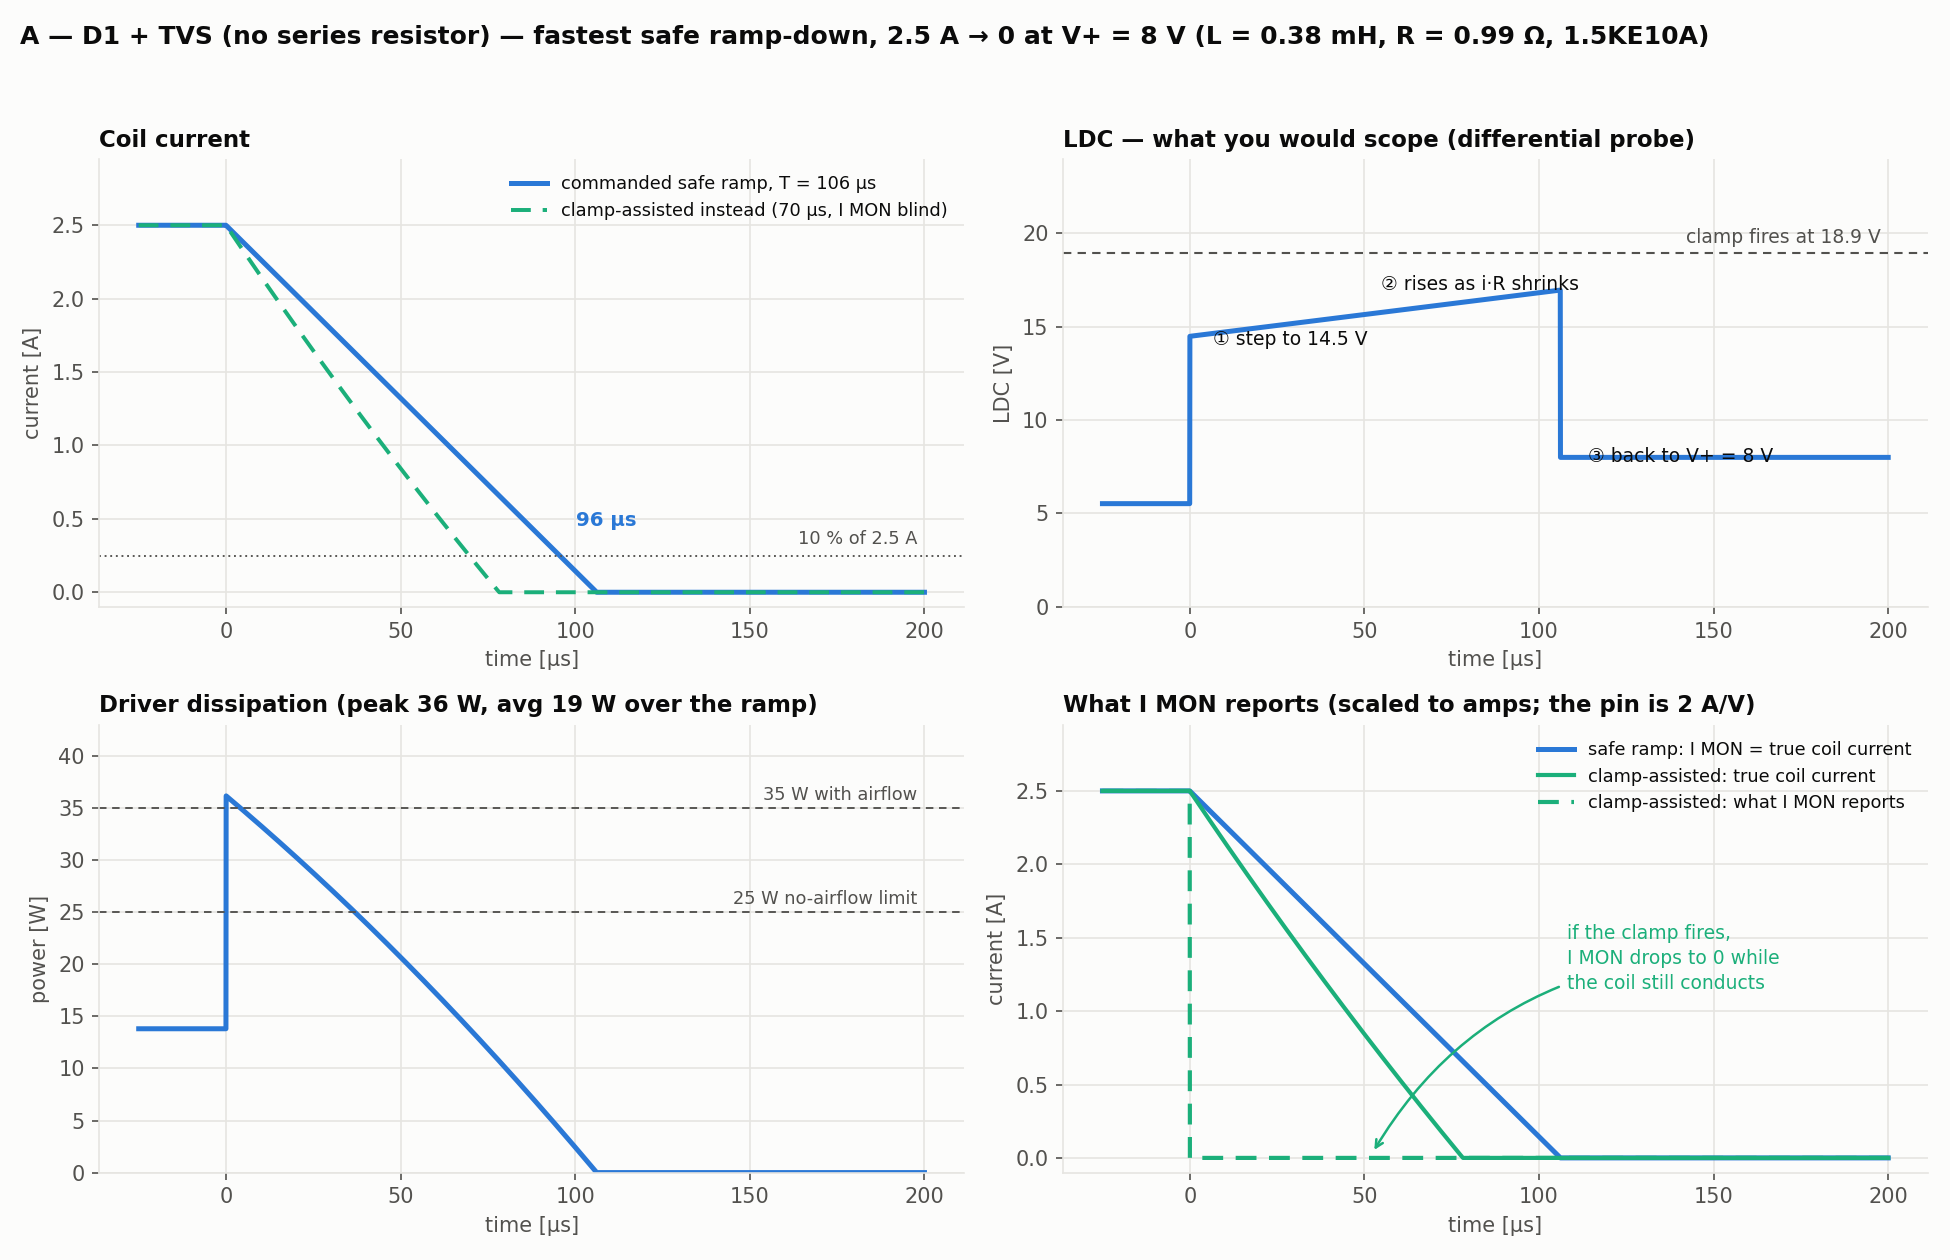
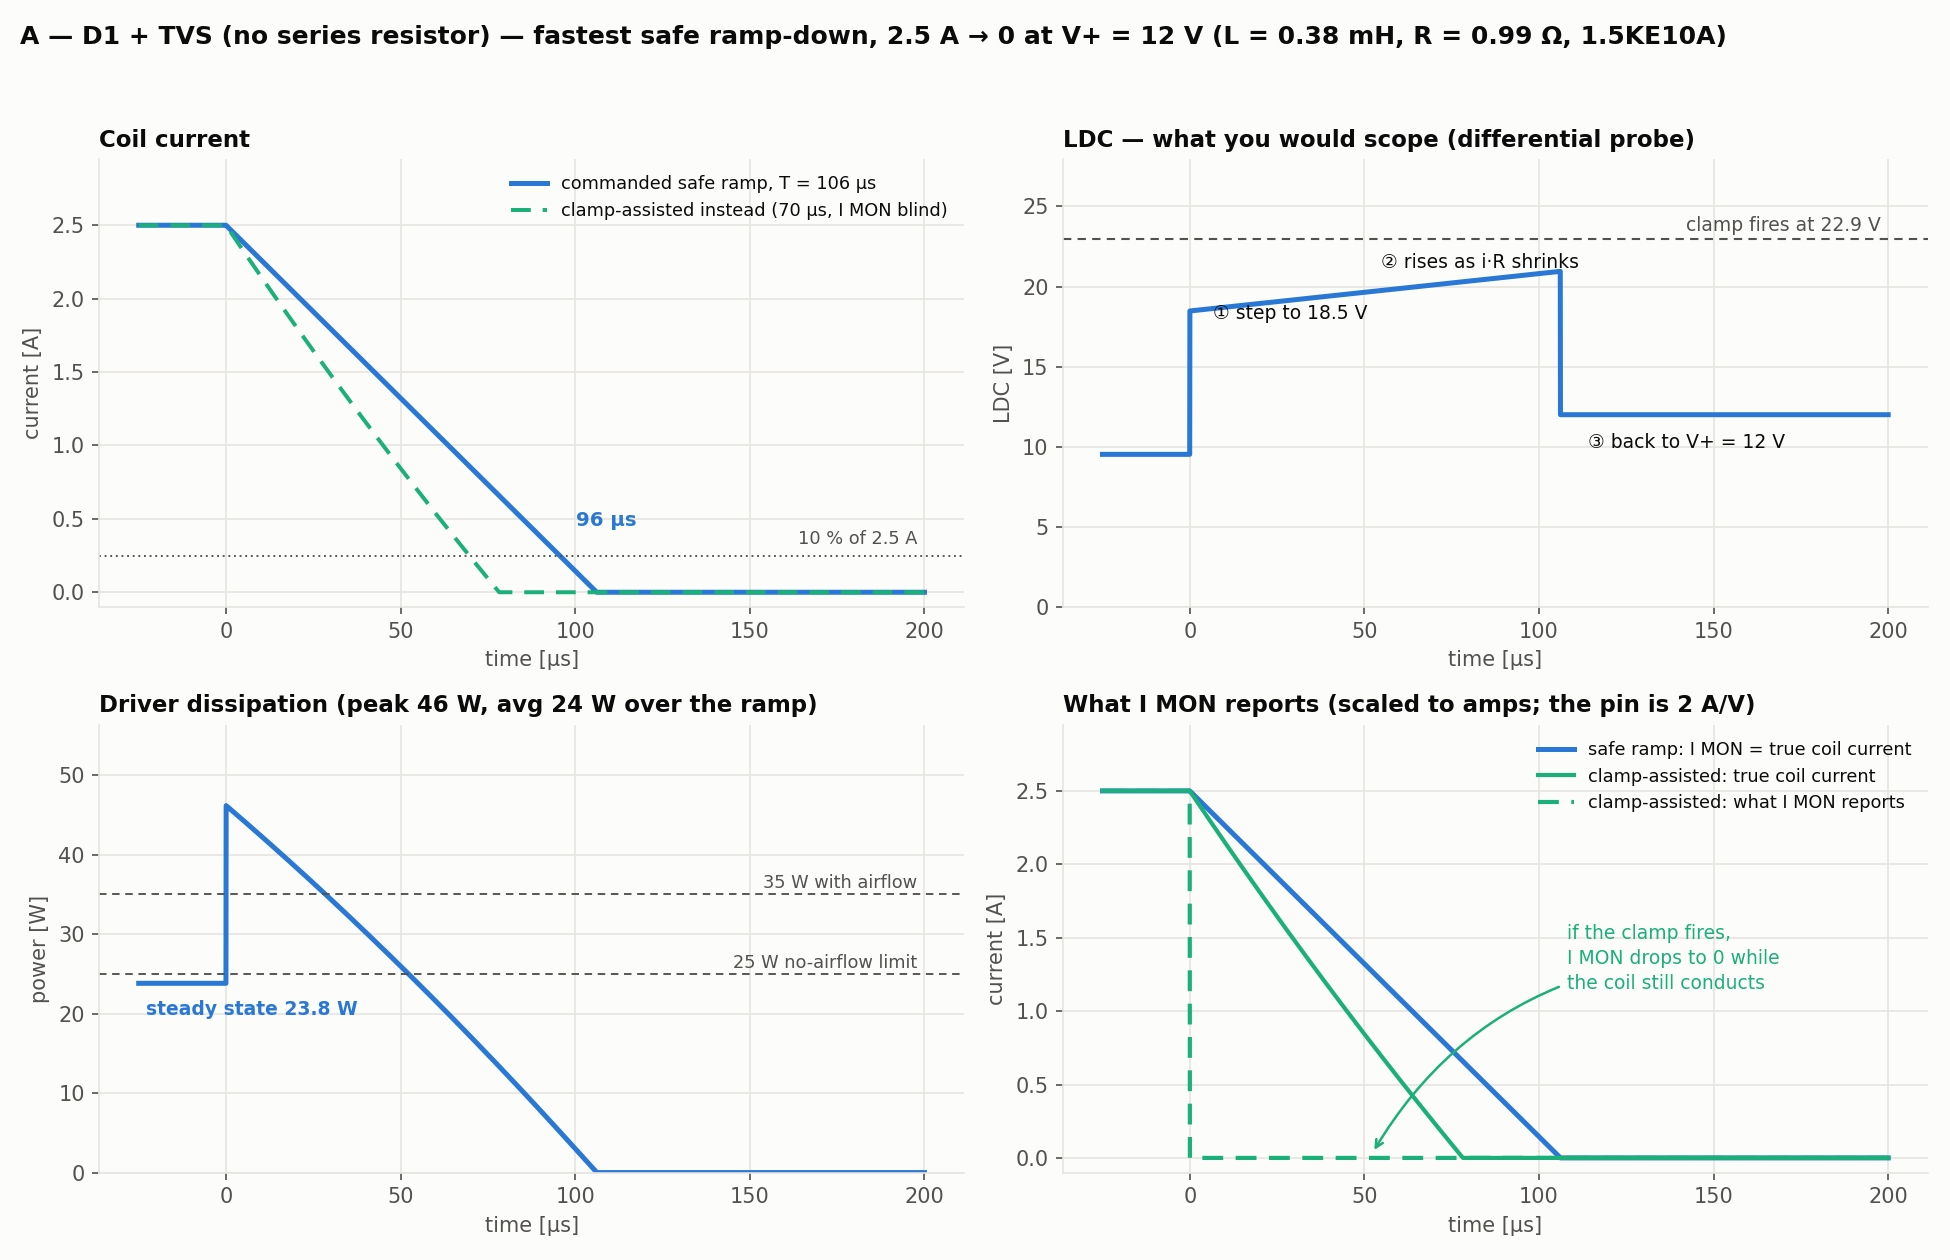
Switch method A to V+ = 12 V
Regenerate the method A ramp simulation at the chosen 12 V rail and update
the docs and order list to match:

- LDC steady 9.53 V, peak 21.0 V, clamp at 22.9 V
- driver 23.8 W steady (95 % of the 25 W no-airflow rating) -> forced air
  becomes a core part, not an option
- ramp-up 109 us; ramp-down unchanged at 96 us, as expected
- drop 1.5KE15A from the order list: at 12 V its clamp lands at 27.9 V,
  on top of the 28 V compliance figure

diff --git a/scripts/sim_fastest_safe_ramp.py b/scripts/sim_fastest_safe_ramp.py
@@ -1,6 +1,6 @@
 """Fastest SAFE ramp-down, simulated separately for each candidate design.
 
-  A: D1 + 1.5KE10A,             no series resistor, V+ = 8 V,  R = 0.99 ohm
+  A: D1 + 1.5KE10A,             no series resistor, V+ = 12 V, R = 0.99 ohm
   B: D1 + 1.5KE10A + 2 ohm Rs,                      V+ = 12 V, R = 2.99 ohm
 
 "Safe" = driver stays in regulation for the whole ramp, so the clamp never conducts
@@ -26,7 +26,7 @@ T = L * I0 / DV
 VCLAMP = VBR + VF
 
 DESIGNS = [
-    dict(key="a", name="A — D1 + TVS (no series resistor)", VP=8.0, R=0.99, RS=0.0, c="#2a78d6"),
+    dict(key="a", name="A — D1 + TVS (no series resistor)", VP=12.0, R=0.99, RS=0.0, c="#2a78d6"),
     dict(key="b", name="B — series 2 Ω + D1 + TVS", VP=12.0, R=2.99, RS=2.0, c="#eb6834"),
 ]
 
@@ -93,7 +93,7 @@ for D in DESIGNS:
     b.text(198, VP + VCLAMP + 0.5, f"clamp fires at {VP+VCLAMP:.1f} V", ha="right", fontsize=9, color=INK2)
     for xx, yy, lab, dxy in ((2, ldc_ss + DV, f"① step to {ldc_ss+DV:.1f} V", (8, -4)),
                              (T * 1e6 * 0.55, VP - I0 * R * 0.45 + DV, "② rises as i·R shrinks", (-6, 10)),
-                             (T * 1e6 + 3, VP, f"③ back to V+ = {VP:.0f} V", (8, -2))):
+                             (T * 1e6 + 3, VP, f"③ back to V+ = {VP:.0f} V", (8, -16))):
         b.annotate(lab, (xx, yy), textcoords="offset points", xytext=dxy, fontsize=9, color=INK)
     b.set_ylim(0, VP + VCLAMP + 5)
     style(b, "LDC — what you would scope (differential probe)", "time [µs]", "LDC [V]")
@@ -103,7 +103,9 @@ for D in DESIGNS:
     for y, lab in ((25, "25 W no-airflow limit"), (35, "35 W with airflow")):
         cc.axhline(y, color=INK2, lw=0.9, ls=(0, (4, 3)))
         cc.text(198, y + 0.8, lab, ha="right", fontsize=8.5, color=INK2)
-    cc.set_ylim(0, 43)
+    cc.annotate(f"steady state {ldc_ss*I0:.1f} W", (-24, ldc_ss * I0), textcoords="offset points",
+                xytext=(2, -15), fontsize=9, color=c, fontweight="bold")
+    cc.set_ylim(0, max(43.0, p.max() * 1.22))
     style(cc, f"Driver dissipation (peak {p.max():.0f} W, avg {p_avg:.0f} W over the ramp)",
           "time [µs]", "power [W]")
     # (d) I MON

diff --git a/docs/method-a-d1-tvs.md b/docs/method-a-d1-tvs.md
@@ -30,10 +30,10 @@ Without a series resistor the load only drops 2.48 V at 2.5 A, so the driver abs
 | 5 V | 2.52 V | 0.52 V | 6.3 W | 25 % | 669 µs | 96 µs | 14.0 V | 15.9 V | no compliance margin |
 | 6 V | 3.52 V | 1.52 V | 8.8 W | 35 % | 370 µs | 96 µs | 15.0 V | 16.9 V | ok, slow ramp-up |
 | 7 V | 4.53 V | 2.53 V | 11.3 W | 45 % | 262 µs | 96 µs | 16.0 V | 17.9 V | ok |
-| **8 V** | **5.53 V** | **3.53 V** | **13.8 W** | **55 %** | **204 µs** | **96 µs** | **17.0 V** | **18.9 V** | **recommended** |
+| 8 V | 5.53 V | 3.53 V | 13.8 W | 55 % | 204 µs | 96 µs | 17.0 V | 18.9 V | most thermal margin |
 | 9 V | 6.53 V | 4.53 V | 16.3 W | 65 % | 167 µs | 96 µs | 18.0 V | 19.9 V | ok |
 | 10 V | 7.53 V | 5.53 V | 18.8 W | 75 % | 142 µs | 96 µs | 19.0 V | 20.9 V | ok |
-| 12 V | 9.53 V | 7.53 V | 23.8 W | 95 % | 109 µs | 96 µs | 21.0 V | 22.9 V | no thermal margin |
+| **12 V** | **9.53 V** | **7.53 V** | **23.8 W** | **95 %** | **109 µs** | **96 µs** | **21.0 V** | **22.9 V** | **chosen — add airflow** |
 | 14 V | 11.53 V | 9.53 V | 28.8 W | 115 % | 89 µs | 96 µs | 23.0 V | 24.9 V | needs forced airflow |
 | 16 V | 13.53 V | 11.53 V | 33.8 W | 135 % | 75 µs | 96 µs | 25.0 V | 26.9 V | needs forced airflow |
 
@@ -42,10 +42,19 @@ Without a series resistor the load only drops 2.48 V at 2.5 A, so the driver abs
 ### The three bounds
 
 - **Lower, compliance:** LDC must stay above 2 V. The hard floor is V+ ≥ 4.47 V, but at 5 V there is only 0.5 V of margin — a warm coil or a sagging supply pushes the driver out of regulation. Keep V+ ≥ 6 V.
-- **Upper, heat:** the driver hits 25 W at V+ = 12.5 V and 35 W at 16.5 V. Without forced air, stay below ~12 V; 8 V leaves real margin.
+- **Upper, heat:** the driver hits 25 W at V+ = 12.5 V and 35 W at 16.5 V. Without forced air, stay below ~12 V; **with** 5.5 CFM of air the wall moves out to 16.5 V.
 - **Upper, LDC stress:** every LDC excursion is stacked on V+. At 16 V the clamp would fire at 26.9 V, within sight of the 28 V maximum compliance figure.
 
-**V+ = 8 V sits in the middle of all three:** 55 % of the thermal limit, 3.5 V of compliance margin, 17 V peak LDC, and 204 µs ramp-up. If your experiment needs a faster ramp-**up**, 10 V is still comfortable at 75 % and 142 µs.
+### Chosen: V+ = 12 V
+
+12 V is the top of the usable window. It buys the **fastest ramp-up (109 µs instead of 204 µs at 8 V)** and plenty of compliance margin, at the cost of thermal headroom:
+
+- **23.8 W steady is 95 % of the 25 W no-airflow rating.** A heatsink is necessary but not sufficient — 25 W is the *package* limit, and it is specified at 25 °C ambient. **Add forced air.** The datasheet's 35 W figure needs only **5.5 CFM**, which any small 40 mm fan exceeds; that drops you to 68 % and makes 12 V comfortable rather than marginal.
+- **Peak LDC 21.0 V, clamp at 22.9 V.** The 1.9 V gap between the working peak and the clamp is unchanged from 8 V — both ride on V+ together. What *has* shrunk is the headroom above the clamp: 5.1 V to the 28 V compliance figure, instead of 9.1 V.
+- **A 15 V TVS is no longer an option at this rail.** 1.5KE15A would put the clamp at 27.9 V, essentially on top of the 28 V figure. At 12 V the TVS choice is limited to 6.8 V or 10 V. See the [order list](order-list.md).
+- **Set LIM first.** At 12 V the load would let the driver push roughly 10 A — twice its 5 A maximum. The LIM trimpot is the only thing standing in the way.
+
+If the case runs hot and you cannot add a fan, 10 V (75 %, 142 µs ramp-up) gives back real margin for little speed.
 
 ## Fastest safe ramp-down
 
@@ -58,10 +67,10 @@ Without a series resistor the load only drops 2.48 V at 2.5 A, so the driver abs
 | Quantity | Value |
 |---|---|
 | Ramp-down to 10 % | **96 µs**, I MON valid throughout |
-| LDC: steady → step → peak → settle | 5.53 V → 14.5 V → **17.0 V** → 8 V |
-| Clamp fires at | 18.9 V (faults only) |
-| Driver power during the ramp | peak 36 W, average 19 W, lasting ~106 µs |
-| Ramp-up 0 → 2.5 A | 204 µs |
+| LDC: steady → step → peak → settle | 9.53 V → 18.5 V → **21.0 V** → 12 V |
+| Clamp fires at | 22.9 V (faults only) |
+| Driver power during the ramp | peak 46 W, average 24 W, lasting ~106 µs |
+| Ramp-up 0 → 2.5 A | 109 µs |
 | If you let the clamp do it instead | 70 µs, but I MON goes blind |
 
 ### What you would observe
@@ -69,13 +78,13 @@ Without a series resistor the load only drops 2.48 V at 2.5 A, so the driver abs
 **Coil current** — a clean straight line, 2.5 A → 0 over 106 µs, crossing 10 % at 96 µs.
 
 **LDC (differential probe)** — three features:
-1. a **step up of ~9 V** at t = 0, from 5.53 V to 14.5 V, as the ramp starts;
-2. a **linear rise to 17.0 V**, because LDC = V+ − i·R + ΔV and the i·R term shrinks as current falls;
-3. a **step back down to V+ = 8 V** when the ramp ends and di/dt goes to zero.
+1. a **step up of ~9 V** at t = 0, from 9.53 V to 18.5 V, as the ramp starts;
+2. a **linear rise to 21.0 V**, because LDC = V+ − i·R + ΔV and the i·R term shrinks as current falls;
+3. a **step back down to V+ = 12 V** when the ramp ends and di/dt goes to zero.
 
 **I MON** — tracks the coil exactly, 1.25 V → 0 V at 2 A/V.
 
-**Driver dissipation** — jumps to 36 W, decays to zero over the ramp. Above 25 W for roughly 60 µs, which the thermal mass absorbs; the average over the ramp is 19 W.
+**Driver dissipation** — jumps from the 23.8 W steady state to 46 W, then decays to zero over the ramp. It exceeds 35 W for about 28 µs and 25 W for about 52 µs; at 24 W average over 106 µs that is only **2.5 mJ**, which the package absorbs without noticing. The transient is not the thermal problem at this rail — **the 23.8 W steady state is.**
 
 The square corners are idealised. The driver's loop is ~0.8 µs, so expect rounding and possibly a little ringing at each step.
 
@@ -83,7 +92,7 @@ The square corners are idealised. The driver's loop is ~0.8 µs, so expect round
 
 | Ref | Part | Why |
 |---|---|---|
-| D1 | MUR460 (4 A, 600 V ultrafast) — or 1N5408 (3 A, 1000 V) | Silicon, **not Schottky**: Schottky leakage runs to tens of mA when hot, and it flows in parallel with the coil, so the coil would get less current than the driver regulates. Only sees ~7 V reverse here |
+| D1 | MUR460 (4 A, 600 V ultrafast) — or 1N5408 (3 A, 1000 V) | Silicon, **not Schottky**: Schottky leakage runs to tens of mA when hot, and it flows in parallel with the coil, so the coil would get less current than the driver regulates. The reverse voltage across the D1 + TVS string is only I₀·R ≈ 2.5 V, so the 600 V rating is wild overkill — you are buying the current rating and the soft turn-off, not the volts |
 | TVS | **1.5KE10A**, unidirectional, axial | 8.55 V standoff sets the usable ramp; breakdown at 10 V gives a flat clamp at 2.5 A. See [imon-and-tvs.md](imon-and-tvs.md) for why not the 6.8 V part |
 | — | Barrier terminal block | Both parts sit in it, cathode to cathode, across J1:1–J1:2 |
 
@@ -100,16 +109,17 @@ With a TVS fitted, mounting at the **coil** costs only ~12 µs in the fault case
 
 ## Bring-up
 
-1. Set the LIM trimpot to ~2.7 A before connecting the coil. At V+ = 8 V the driver can reach 6.1 A into this load.
+1. **Set the LIM trimpot to ~2.7 A before connecting the coil.** At V+ = 12 V this load would accept about 10 A, double the driver's 5 A maximum, so LIM is the only limit that applies. Fit the heatsink and point a small fan at it in the same step.
 2. Drive MOD INPUT (1 A/V in CC mode) with a linear 2.5 V → 0 V ramp over 106 µs. Keep the pin within −2 V to +5 V.
 3. Start at 0.5 A with a slow ramp. Scope LDC with a **differential or isolated probe** — LDC is live, and a scope ground clip shorts it to ground.
-4. Confirm steady LDC ≈ 5.5 V at 2.5 A and the three-feature waveform above.
-5. **Shorten the ramp until the clamp fires**, then back off ~20 %. The signature is unmistakable on two traces at once: LDC flat-tops at 18.9 V instead of continuing to rise, and I MON collapses to ~0 while current still flows. That measured threshold beats the calculated 106 µs, because it includes tolerances the model does not know.
-6. Check driver case temperature after a few minutes at 2.5 A.
+4. Confirm steady LDC ≈ 9.5 V at 2.5 A and the three-feature waveform above.
+5. **Shorten the ramp until the clamp fires**, then back off ~20 %. The signature is unmistakable on two traces at once: LDC flat-tops at 22.9 V instead of continuing to rise, and I MON collapses to ~0 while current still flows. That measured threshold beats the calculated 106 µs, because it includes tolerances the model does not know.
+6. **Check driver case temperature after a few minutes at 2.5 A** — this matters more at 12 V than at any other step. 23.8 W continuous is 95 % of the no-airflow rating. If the case is too hot to hold, either add airflow or drop V+ to 10 V.
 
 ## Caveats
 
 - L and R are confirmed; everything downstream is modelled, not measured.
 - TVS standoff and breakdown carry ±5 % tolerance, so the usable ΔV and the clamp threshold shift with it — hence step 5 above.
 - D1's forward drop is taken as 0.4 V at leakage currents and 0.95 V at 2.5 A.
-- The LD5CHA datasheet gives **no maximum LDC voltage**; 17 V peak is a judgement call below the 28 V maximum compliance figure.
+- The LD5CHA datasheet gives **no maximum LDC voltage**; 21 V peak is a judgement call below the 28 V maximum compliance figure.
+- 23.8 W at V+ = 12 V leaves 5 % margin on a rating specified at 25 °C ambient with no airflow. Treat forced air as part of the design, not an optional extra.

diff --git a/docs/order-list.md b/docs/order-list.md
@@ -1,6 +1,6 @@
 # DigiKey order list — Method A
 
-For [method A](method-a-d1-tvs.md): D1 + TVS across the driver's J1 terminal block, V+ = 8 V, 2.5 A.
+For [method A](method-a-d1-tvs.md): D1 + TVS across the driver's J1 terminal block, **V+ = 12 V**, 2.5 A.
 
 ## Core parts
 
@@ -10,18 +10,23 @@ For [method A](method-a-d1-tvs.md): D1 + TVS across the driver's J1 terminal blo
 | **D1** | 4 A / 600 V ultrafast rectifier, axial DO-201AD | **MUR460** (onsemi `MUR460RLG`, or Vishay) | 5 | Blocks the clamp in normal operation; silicon, low leakage |
 | — | 6-position barrier terminal block | **6-141** (Cinch) or any barrier strip | 2 | Joins D1 and the TVS cathode-to-cathode and lands on J1 |
 | — | Heat-shrink assortment, 2–6 mm | any | 1 | Insulate the D1–TVS joint |
+| **Fan** | 40 mm 12 V DC axial fan, ≥ 6 CFM | any (search DigiKey *DC Fans*, 40×40×10 mm, 12 V) | 1 | **Needed at V+ = 12 V.** 23.8 W steady is 95 % of the 25 W no-airflow rating; 5.5 CFM raises it to 35 W. Runs off the same 12 V rail |
 
 Five of each on the semiconductors because they cost well under a dollar and are the parts most likely to be damaged while you find the real ramp limit on the bench.
+
+The fan moved from "nice to have" to "core" when the supply went from 8 V to 12 V — see [Choosing V+](method-a-d1-tvs.md#choosing-v).
 
 ## Strongly recommended — TVS options for bench tuning
 
 Step 5 of the bring-up is *shorten the ramp until the clamp fires, then back off*. The right TVS depends on what that measurement gives you, so buy the neighbours now rather than waiting on a second order:
 
-| Part | Standoff | Ramp you can run | Peak LDC at 8 V | Clamp fires at | Qty |
+| Part | Standoff | Ramp you can run | Peak LDC at 12 V | Clamp fires at | Qty |
 |---|---|---|---|---|---|
-| 1.5KE6.8A | 5.80 V | 138 µs | 14.2 V | 15.8 V | 3 |
-| **1.5KE10A** | **8.55 V** | **96 µs** | **17.0 V** | **18.9 V** | **5** |
-| 1.5KE15A | 12.80 V | 65 µs | 21.2 V | 23.9 V | 3 |
+| 1.5KE6.8A | 5.80 V | 138 µs | 18.2 V | 19.8 V | 3 |
+| **1.5KE10A** | **8.55 V** | **96 µs** | **21.0 V** | **22.9 V** | **5** |
+| ~~1.5KE15A~~ | 12.80 V | 65 µs | 25.2 V | **27.9 V** | **0 — skip** |
+
+**Dropped the 15 V part.** At V+ = 12 V its clamp lands at 27.9 V, right on the datasheet's 28 V maximum compliance figure, with nothing left for tolerance. It was a reasonable third option at 8 V; at 12 V it is not. The ramp times in this table are independent of V+ — only the voltages move — so 12 V costs you the fast end of the tuning range.
 
 ## Optional
 
@@ -37,16 +42,17 @@ DigiKey's **bulk add / BOM Manager** accepts manufacturer part numbers:
 ```
 1.5KE10A, 5
 1.5KE6.8A, 3
-1.5KE15A, 3
 MUR460RLG, 5
 1N5408, 5
 6-141, 2
 ```
+
+The fan is not in the paste list because the choice is wide open — pick any 40 mm / 12 V part with stock.
 
 ## Before you click order
 
 - **Unidirectional, not bidirectional.** `1.5KE10A` is unidirectional; `1.5KE10**C**A` is bidirectional and would conduct in both directions, shorting the coil in normal operation. The absence of a `C` is the whole difference. Check it on every TVS line.
 - **Several manufacturers share the 1.5KE numbering** (Littelfuse, Vishay, onsemi, SMC). Any is fine — pick one with stock. The packaging suffixes (`-E3/54`, `RL4G`, …) only set lead finish and tape/bulk, not the electrical part. Leakage specs differ slightly between manufacturers; see [imon-and-tvs.md](imon-and-tvs.md).
 - **Do not substitute a Schottky for D1.** Schottky leakage reaches tens of mA when hot, and it flows in parallel with the coil, so the coil would receive measurably less current than the driver regulates.
-- **Not on this list:** the 8 V / ≥3 A supply, the function generator for the MOD INPUT ramp, a differential or isolated scope probe for LDC, and the driver heatsink (Wavelength's recommended part is the MULTI-HTSK, bought from them rather than DigiKey).
+- **Not on this list:** the **12 V / ≥ 3 A** supply, the function generator for the MOD INPUT ramp, a differential or isolated scope probe for LDC, and the driver heatsink (Wavelength's recommended part is the MULTI-HTSK, bought from them rather than DigiKey). Size the supply for 2.5 A continuous plus the fan — 30 W of dissipation sits in the driver, so a 12 V / 3 A bench supply is the minimum.
 - Part numbers here are manufacturer numbers, not DigiKey stock numbers. Confirm the exact orderable variant and current stock at the time you order.

diff --git a/docs/final-comparison.md b/docs/final-comparison.md
@@ -2,7 +2,7 @@
 
 Each method is written up on its own, with its own schematic, numbers, simulation and bring-up:
 
-- **[Method A — D1 + TVS, no series resistor](method-a-d1-tvs.md)** (V+ = 8 V)
+- **[Method A — D1 + TVS, no series resistor](method-a-d1-tvs.md)** (V+ = 12 V)
 - **[Method B — series 2 Ω + D1 + TVS](method-b-series-resistor.md)** (V+ = 12 V)
 
 Shared background: [I MON and the TVS](imon-and-tvs.md). Both use a 1.5KE10A and a commanded 106 µs linear ramp.
